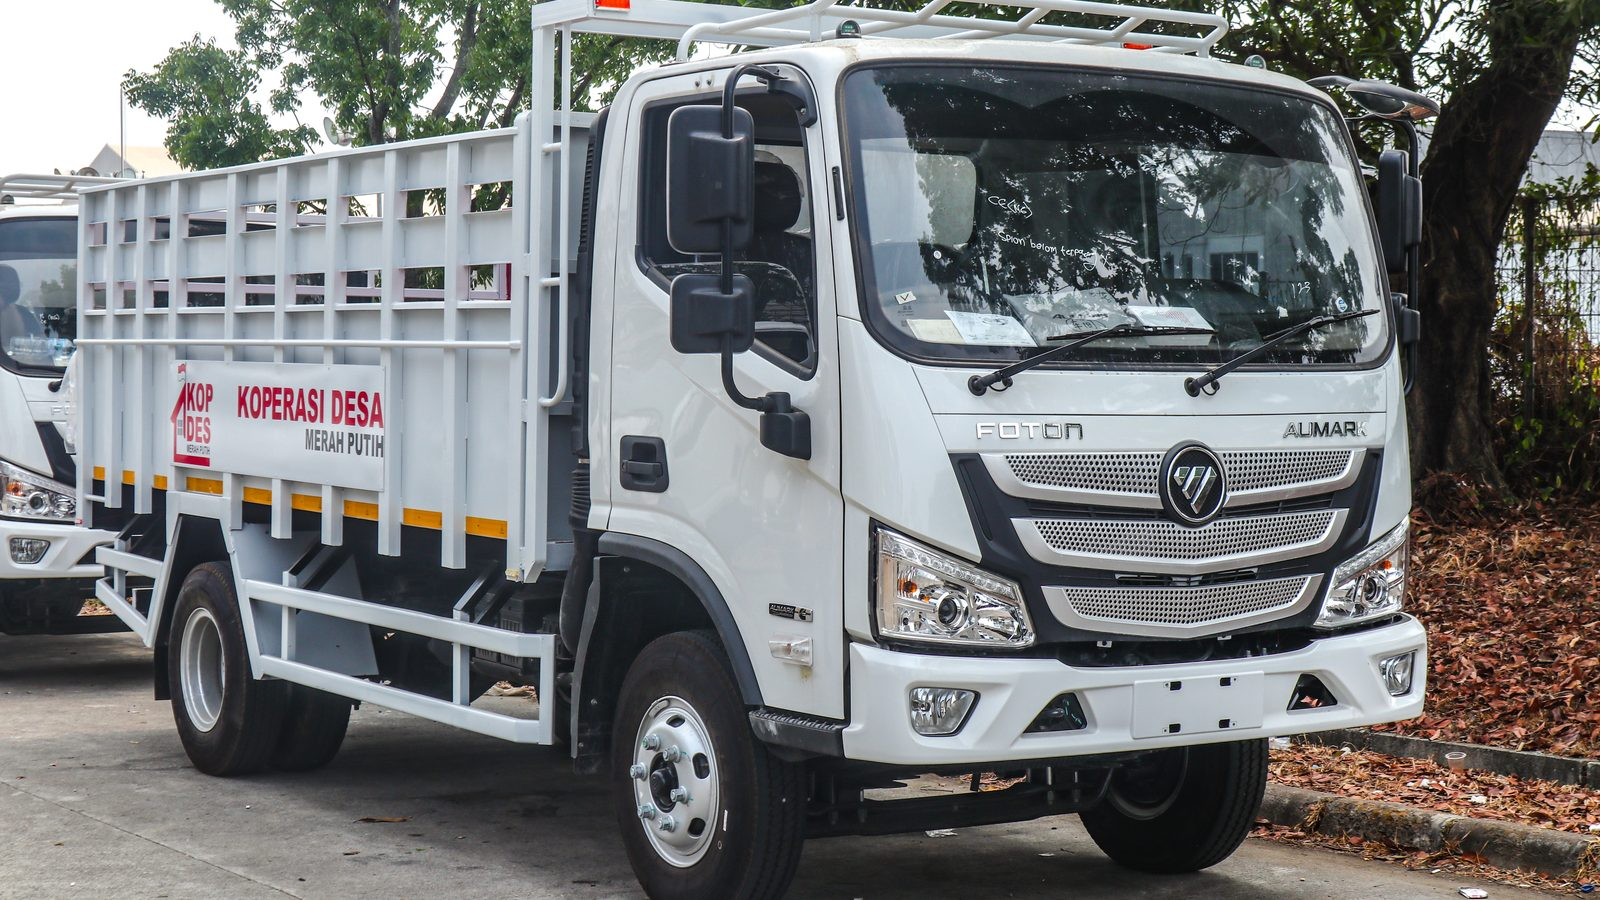
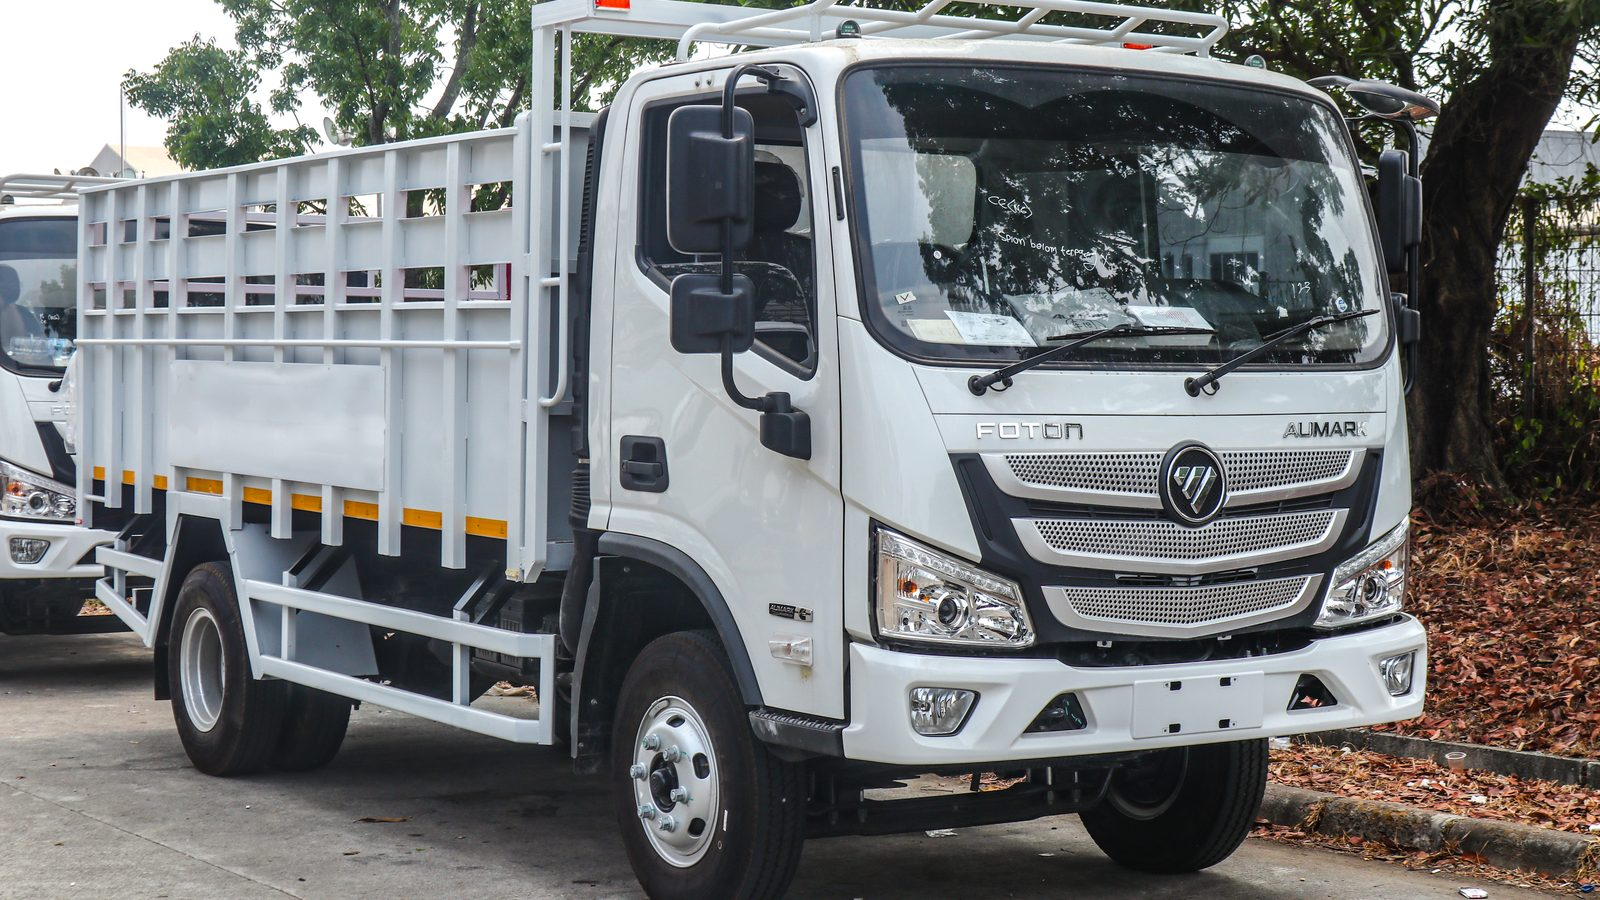
Foton sin el letrero ajeno y fotos reales con licencia para las órdenes de la demo (caucho, disco de freno, luz trasera y taller) (T-164, T-165)

Changed region(s): [[0.0938, 0.4044, 0.25, 0.5289]]

diff --git a/comparativa/fotos-vehiculos/CREDITOS.md b/comparativa/fotos-vehiculos/CREDITOS.md
@@ -15,7 +15,7 @@ Recortes en `recortes/<marca-modelo>-4x3.jpg` y `-16x9.jpg` (1600 px de ancho).
 | Iveco Daily | iveco-daily-4x3.jpg, iveco-daily-16x9.jpg | 2015 Iveco Daily - Chassis Cab - Fr.jpg | BarnCas | [CC BY-SA 4.0](https://creativecommons.org/licenses/by-sa/4.0) | [Commons](https://commons.wikimedia.org/wiki/File:2015_Iveco_Daily_-_Chassis_Cab_-_Fr.jpg) | modificada: recorte |
 | Mack Granite | mack-granite-4x3.jpg, mack-granite-16x9.jpg | 2025 Mack Granite Axle Forward 6x4 chassis in Mack Red, front left.jpg | Mr.choppers | [CC BY-SA 3.0](https://creativecommons.org/licenses/by-sa/3.0) | [Commons](https://commons.wikimedia.org/wiki/File:2025_Mack_Granite_Axle_Forward_6x4_chassis_in_Mack_Red,_front_left.jpg) | modificada: recorte; fondo ampliado arriba y abajo con desenfoque en 4:3 |
 | Kenworth T800 | kenworth-t800-4x3.jpg, kenworth-t800-16x9.jpg | Kenworth T-800 2009 (14901408005).jpg | order_242 from Chile | [CC BY-SA 2.0](https://creativecommons.org/licenses/by-sa/2.0) | [Commons](https://commons.wikimedia.org/wiki/File:Kenworth_T-800_2009_(14901408005).jpg) | modificada: recorte |
-| Foton Aumark | foton-aumark-4x3.jpg, foton-aumark-16x9.jpg | Foton Aumark truck of Koperasi Desa Merah Putih (01).jpg | Sulthan Naufal | [CC BY-SA 4.0](https://creativecommons.org/licenses/by-sa/4.0) | [Commons](https://commons.wikimedia.org/wiki/File:Foton_Aumark_truck_of_Koperasi_Desa_Merah_Putih_(01).jpg) | modificada: recorte |
+| Foton Aumark | foton-aumark-4x3.jpg, foton-aumark-16x9.jpg | Foton Aumark truck of Koperasi Desa Merah Putih (01).jpg | Sulthan Naufal | [CC BY-SA 4.0](https://creativecommons.org/licenses/by-sa/4.0) | [Commons](https://commons.wikimedia.org/wiki/File:Foton_Aumark_truck_of_Koperasi_Desa_Merah_Putih_(01).jpg) | modificada: recorte; letrero difuminado (texto y logo «Koperasi Desa Merah Putih» del costado borrados) |
 | JAC X200 | jac-x200-4x3.jpg, jac-x200-16x9.jpg | 2018 JAC X200.jpg | RL GNZLZ | [CC BY-SA 2.0](https://creativecommons.org/licenses/by-sa/2.0) | [Commons](https://commons.wikimedia.org/wiki/File:2018_JAC_X200.jpg) | modificada: recorte; matrícula de un auto del fondo difuminada; fondo ampliado arriba y abajo con desenfoque en 4:3 |
 | Chevrolet Aveo | chevrolet-aveo-4x3.jpg, chevrolet-aveo-16x9.jpg | 2012 Chevrolet Aveo LTZ Automatic 1.4.jpg | Vauxford | [CC BY-SA 4.0](https://creativecommons.org/licenses/by-sa/4.0) | [Commons](https://commons.wikimedia.org/wiki/File:2012_Chevrolet_Aveo_LTZ_Automatic_1.4.jpg) | modificada: recorte; matrícula de un auto del fondo difuminada; fondo ampliado arriba y abajo con desenfoque en 4:3 |
 | Toyota Corolla | toyota-corolla-4x3.jpg, toyota-corolla-16x9.jpg | 2021 Toyota Corolla LE, front right, 07-13-2024.jpg | MercurySable99 | [CC BY-SA 4.0](https://creativecommons.org/licenses/by-sa/4.0) | [Commons](https://commons.wikimedia.org/wiki/File:2021_Toyota_Corolla_LE,_front_right,_07-13-2024.jpg) | modificada: recorte; matrícula difuminada; fondo ampliado arriba y abajo con desenfoque en 4:3 |

diff --git a/comparativa/fotos-ordenes/CREDITOS.md b/comparativa/fotos-ordenes/CREDITOS.md
@@ -1,0 +1,24 @@
+# Créditos de las fotos de órdenes de mantenimiento
+
+Fotos reales para las órdenes de la demo (reemplazan a las que estaban hechas con IA). Revisadas el 26 oct 2026 en su página de origen; todas permiten uso comercial.
+Originales en `originales/`. Recortes en `recortes/` a 4:3, 1600 × 1200 px, JPG de menos de 300 KB, con los mismos nombres que usa la demo.
+Las licencias CC BY obligan a nombrar al autor, enlazar la licencia y decir si la foto fue modificada. La licencia Unsplash no obliga a nombrar al autor, pero lo nombramos igual.
+
+| Archivo (recortes) | Qué muestra | Título original | Autor | Licencia | Página | Modificada |
+|---|---|---|---|---|---|---|
+| falla-1.jpg | Caucho con desgaste fuerte en el hombro (se ven las lonas), montado en su rin | Tire Severe Under Inflation Wear.jpg | CZmarlin (Christopher Ziemnowicz) | Dominio público ([PD-self](https://commons.wikimedia.org/wiki/Template:PD-self)); el autor pide, si se puede, darle crédito | [Commons](https://commons.wikimedia.org/wiki/File:Tire_Severe_Under_Inflation_Wear.jpg) | modificada: reducida a 1600 px (ya era 4:3) |
+| falla-2.jpg | Disco de freno delantero oxidado y rayado, con la rueda quitada | Alarm bells! (25681917701).jpg | Riley, de Christchurch (Nueva Zelanda) | [CC BY 2.0](https://creativecommons.org/licenses/by/2.0) | [Commons](https://commons.wikimedia.org/wiki/File:Alarm_bells!_(25681917701).jpg) | modificada: reducida a 1600 px (ya era 4:3) |
+| luz-trasera.jpg | Luz trasera rota: sin mica, con la placa de bombillos salida | Damaged red car with broken taillight on a gravel surface near other vehicles in a repair area.jpg | Shixart1985 | [CC BY 2.0](https://creativecommons.org/licenses/by/2.0) | [Commons](https://commons.wikimedia.org/wiki/File:Damaged_red_car_with_broken_taillight_on_a_gravel_surface_near_other_vehicles_in_a_repair_area.jpg) | modificada: recorte a 4:3 |
+| taller.jpg | Mecánico montando una rueda en un vehículo elevado, en el taller | A man working on a tire in a garage (9uHal2Dd9aE) | [Jimmy Nilsson Masth](https://unsplash.com/@jimmynilssonmasth) | [Licencia Unsplash](https://unsplash.com/license) | [Unsplash](https://unsplash.com/photos/a-man-working-on-a-tire-in-a-garage-9uHal2Dd9aE) | modificada: recorte a 4:3; logo de la marca del guante borrado |
+
+## Revisión de contenido
+
+- Sin matrículas: ninguna de las cuatro muestra una placa.
+- Sin caras: en taller.jpg solo se ven brazos y guantes.
+- Logos: se borró el logo «TEN PROTECTION» del guante (taller.jpg). Quedan solo textos pequeños y en relieve del propio caucho (falla-1.jpg, borde de taller.jpg) y un emblema pequeño en el centro del rin de taller.jpg.
+
+## Línea corta para el pie
+
+«Foto: <Autor>, <Licencia>, vía <Wikimedia Commons | Unsplash> (recortada)». Ejemplo:
+
+«Foto: Riley, CC BY 2.0, vía Wikimedia Commons».
